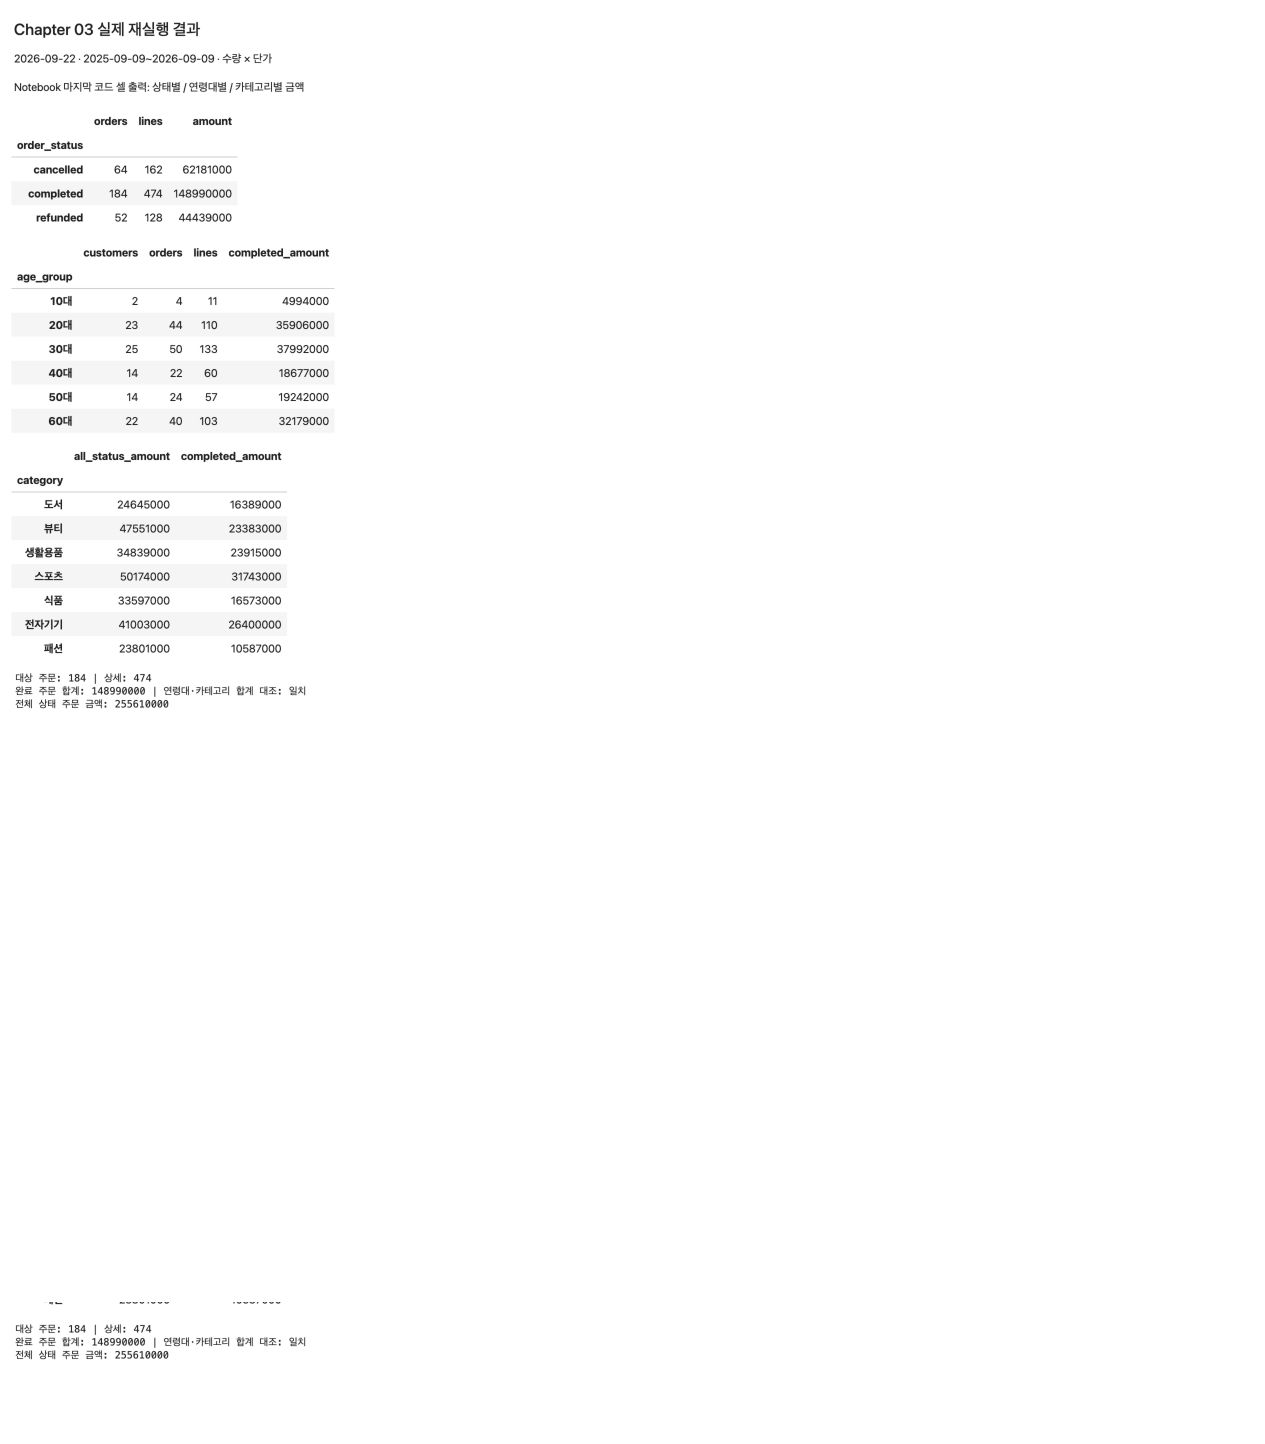
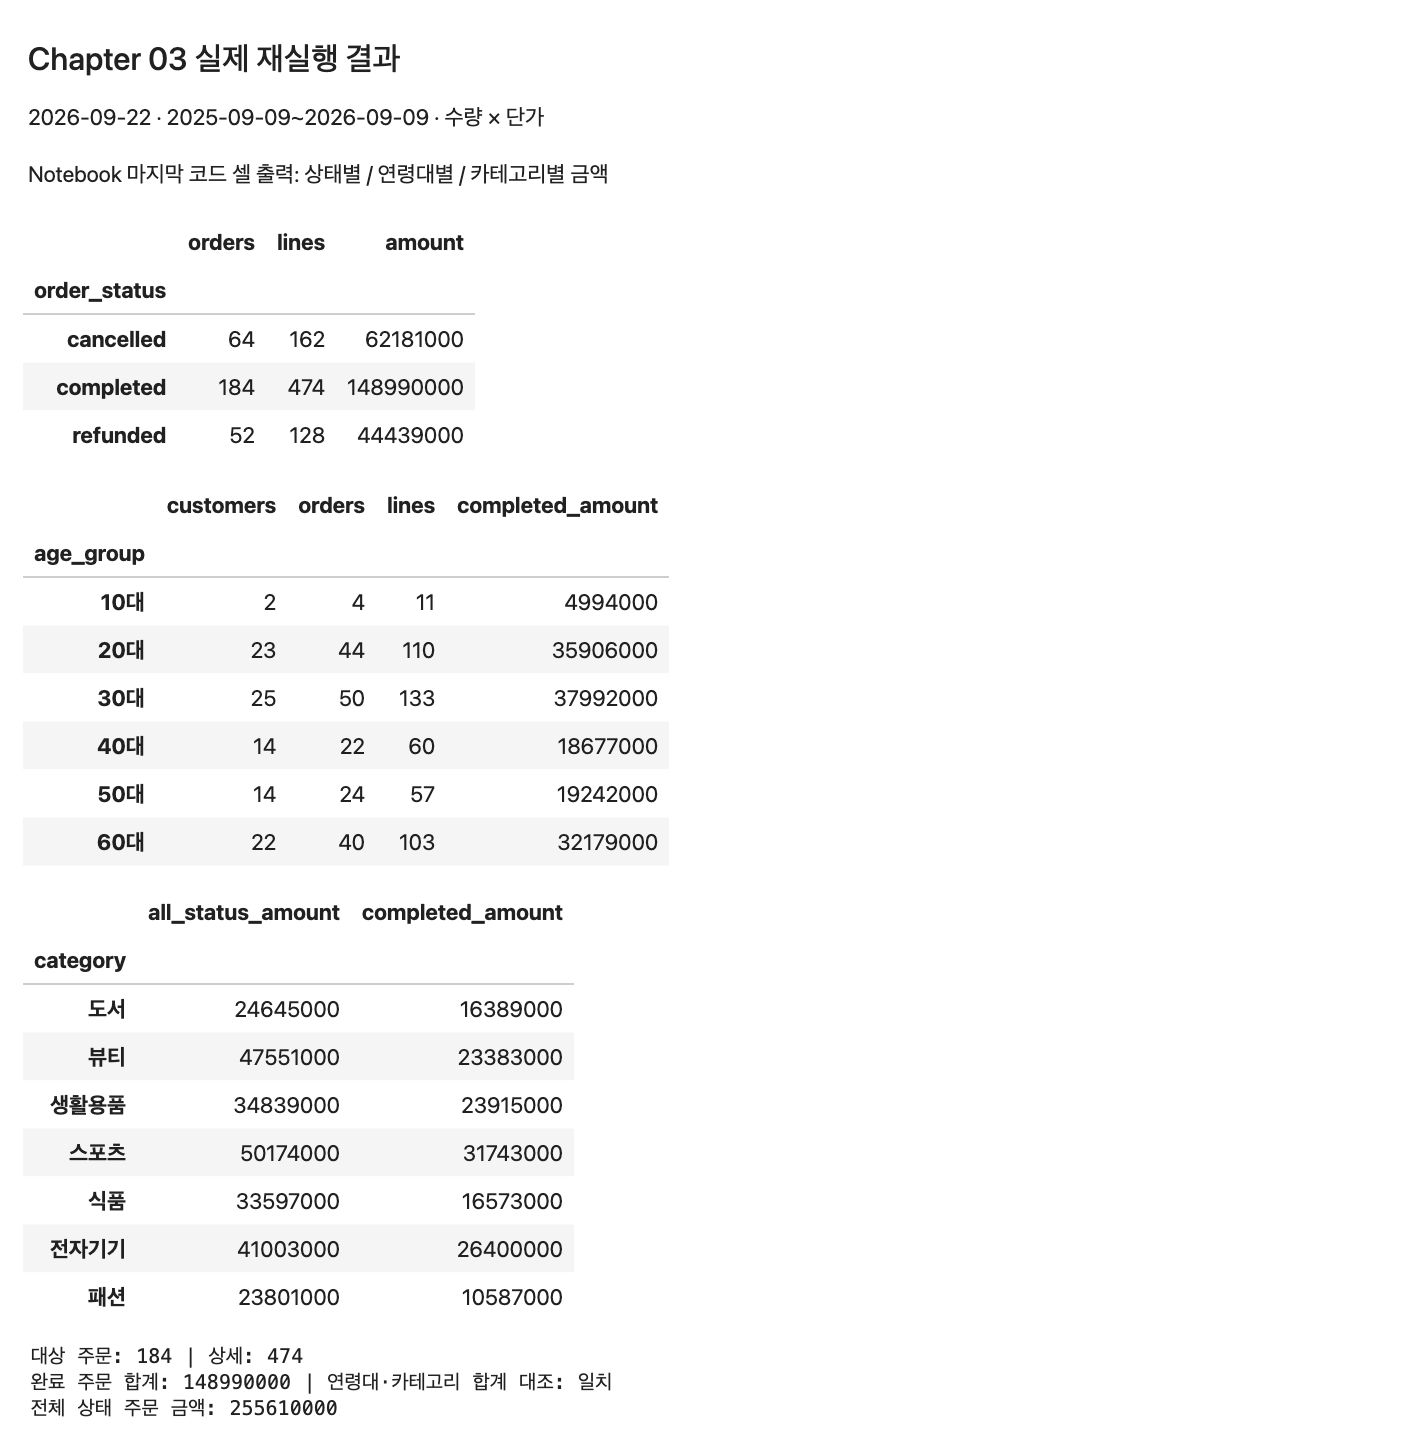
Record verified GitHub rendering and finalize evidence capture

diff --git a/chapter03/chapter03.md b/chapter03/chapter03.md
@@ -7,7 +7,7 @@
 - 수정·재실행일: 2026-09-22
 - 최종 제출 URL: https://github.com/minilee0307-dot/llm-data-analysis-study/blob/main/chapter03/chapter03.ipynb
 - 실습 수행 상태: **COMPLETE** — 아래 모든 코드 셀을 순서대로 재실행하고 출력을 저장했다.
-- GitHub 반영·표시 확인: **PARTIAL** — 수정본 업로드 및 원격 렌더링 확인 전이다.
+- GitHub 반영·표시 확인: **COMPLETE** — GitHub에 커밋을 반영했고 Notebook·Markdown의 본문, 저장된 출력과 Evidence 5장의 표시를 확인했다.
 
 공식 [실습 가이드](https://github.com/GilbertMoon/llm-data-analysis-course/blob/main/practice/chapter03/chapter03.md)와 [제출 양식](https://github.com/GilbertMoon/llm-data-analysis-course/blob/main/practice/chapter03/templates/chapter03_assignment.md)의 1~6번에 맞춰 정리했다.
 기존 실습에서 생성한 가상 쇼핑몰 CSV를 `data/`에 그대로 보존했다. 새로 생성하면 날짜가 달라질 수 있어 재생성하지 않았다. 실제 고객 정보는 아니다.
@@ -165,6 +165,6 @@ FK 누락과 병합 중 행 증가를 확인하면 금액 집계가 빠지거나
 - [x] 핵심 Evidence 5장을 본문에 연결했습니다.
 - [x] 관찰과 해석을 구분했습니다.
 - [x] 원본은 수업용 가상 데이터이며 개인정보/Secret을 추가하지 않았습니다.
-- [ ] 수정한 `chapter03/chapter03.ipynb`가 GitHub에서 정상 표시됩니다.
+- [x] 수정한 `chapter03/chapter03.ipynb`가 GitHub에서 정상 표시됩니다.
 - [x] 최종 Notebook 파일 URL을 명시했습니다.
 - [ ] eTL 제출/재제출 여부는 별도로 확인해야 합니다.
